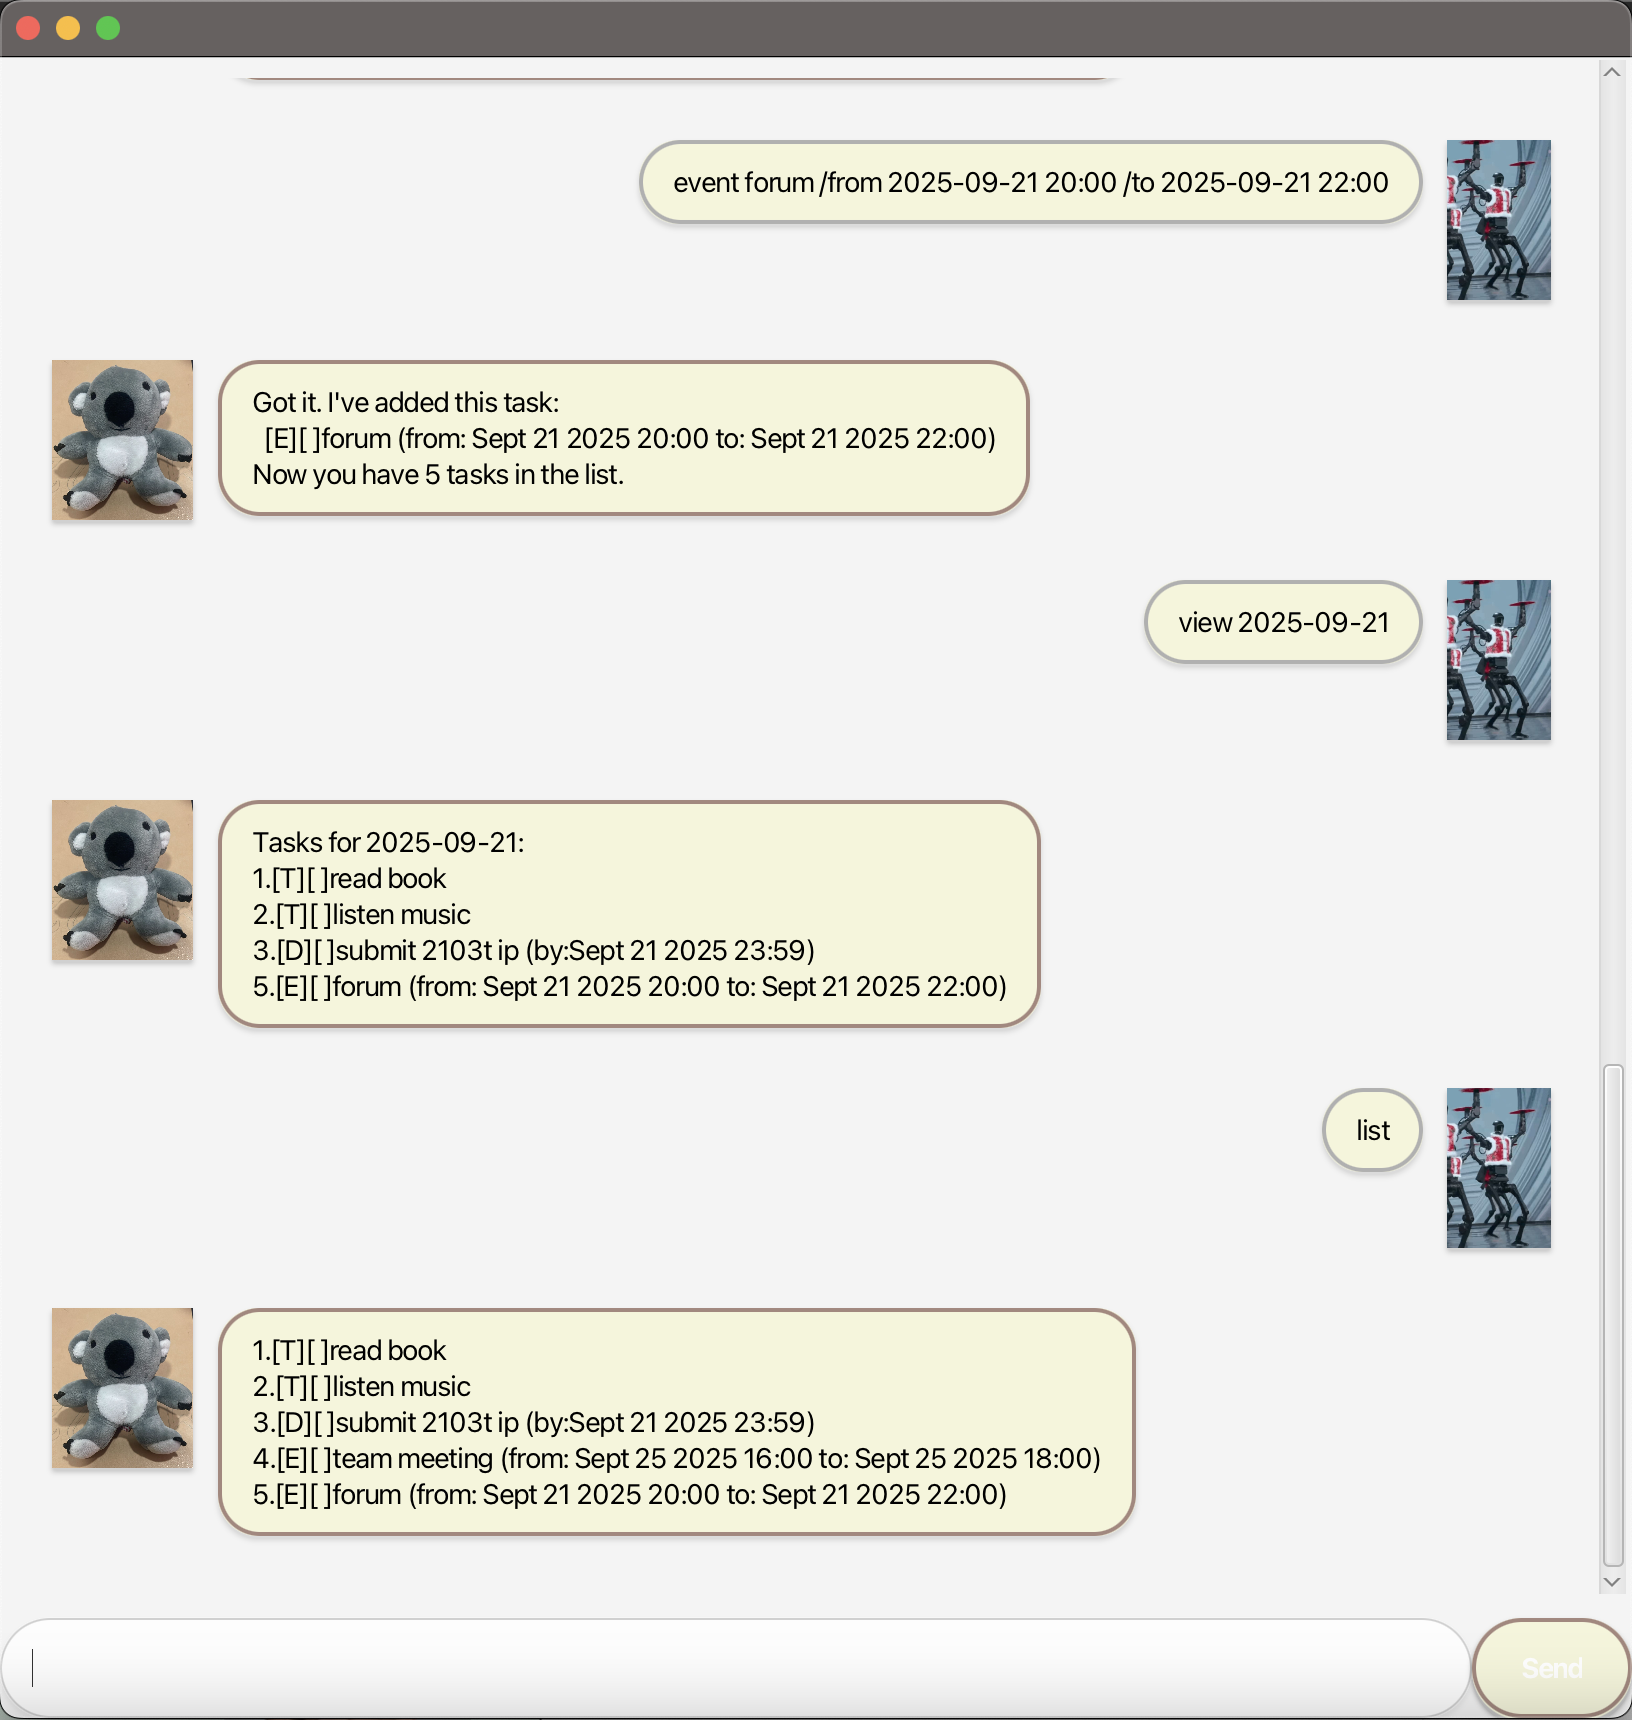
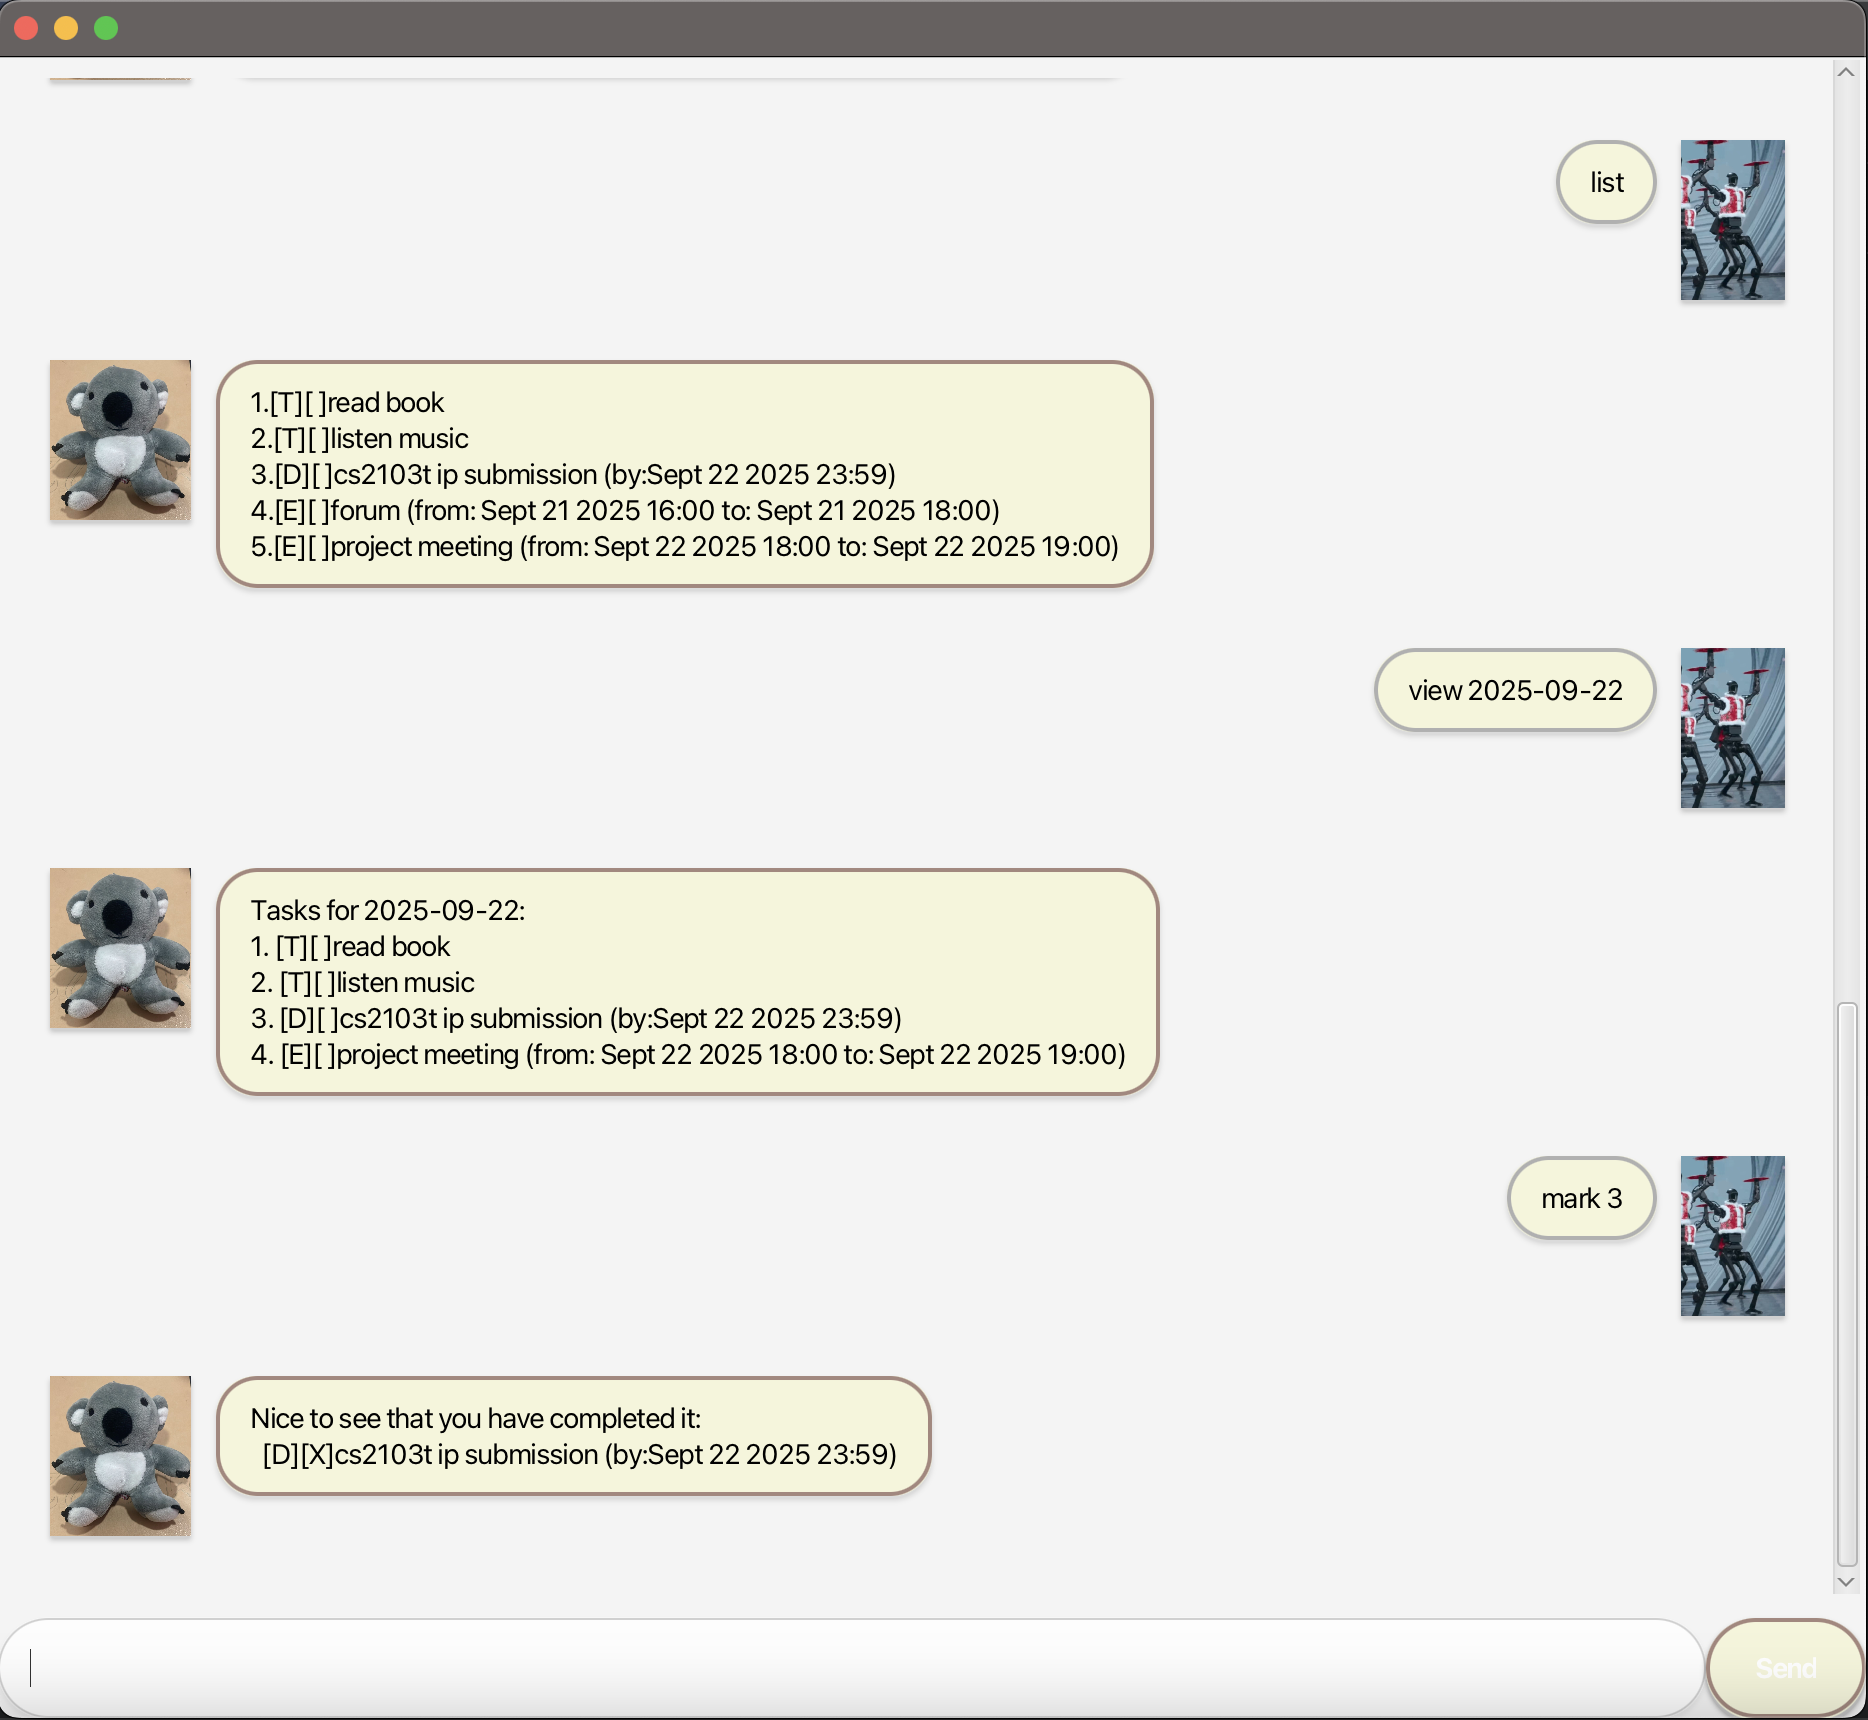
Change a Ui.png
The displaySchedule() method uses former task numbers.

The task list shows non-consecutive numbers.

Let's fix it so that it will show consecutive list number on the date.

diff --git a/src/main/java/duke/Ui.java b/src/main/java/duke/Ui.java
@@ -69,20 +69,21 @@ public class Ui {
 
     public static String displaySchedule(LocalDate date, ArrayList<Task> tasks) {
         StringBuilder sb = new StringBuilder();
-        for (int i = 0; i < tasks.size(); i++) {
-            Task taskToBeChecked = tasks.get(i);
+        int counter = 1;
+
+        for (Task taskToBeChecked : tasks) {
             if (taskToBeChecked instanceof Deadline) {
                 Deadline deadline = (Deadline) taskToBeChecked;
                 if (deadline.getBy().toLocalDate().equals(date)) {
-                    sb.append((i + 1) + "." + taskToBeChecked + "\n");
+                    sb.append(counter++).append(". ").append(taskToBeChecked).append("\n");
                 }
             } else if (taskToBeChecked instanceof Event) {
                 Event event = (Event) taskToBeChecked;
                 if (!date.isBefore(event.getFrom().toLocalDate()) && !date.isAfter(event.getTo().toLocalDate())) {
-                    sb.append((i + 1) + "." + taskToBeChecked + "\n");
+                    sb.append(counter++).append(". ").append(taskToBeChecked).append("\n");
                 }
             } else {
-                sb.append((i + 1) + "." + taskToBeChecked + "\n");
+                sb.append(counter++).append(". ").append(taskToBeChecked).append("\n");
             }
         }
         return sb.toString().trim();
